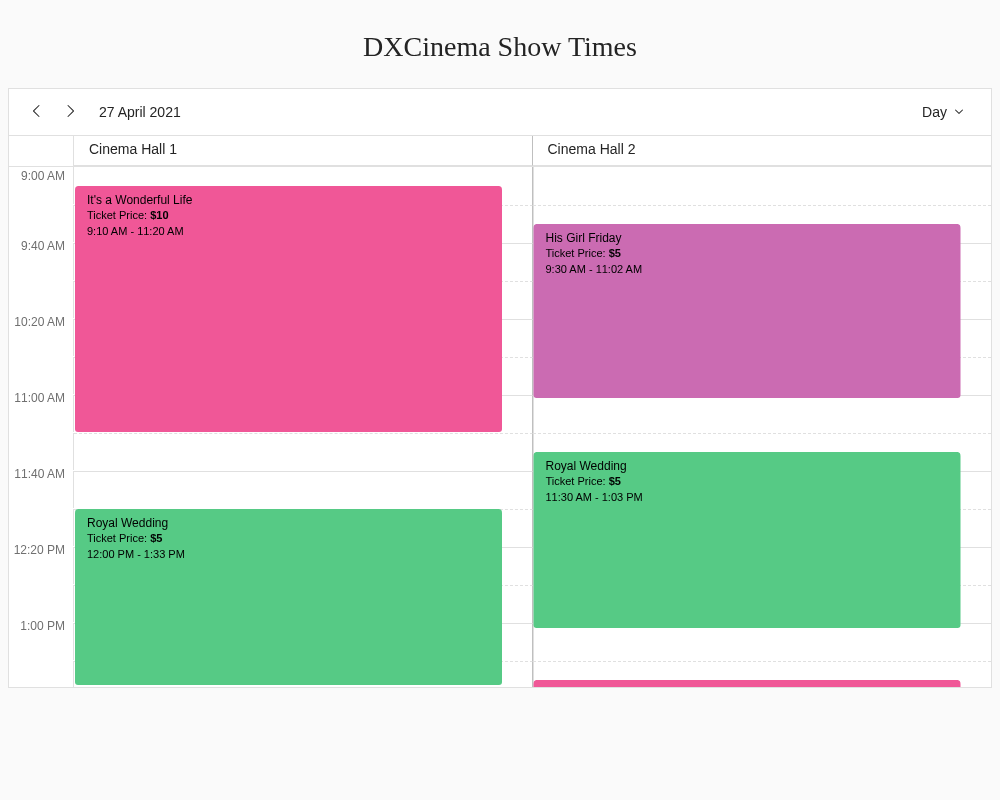
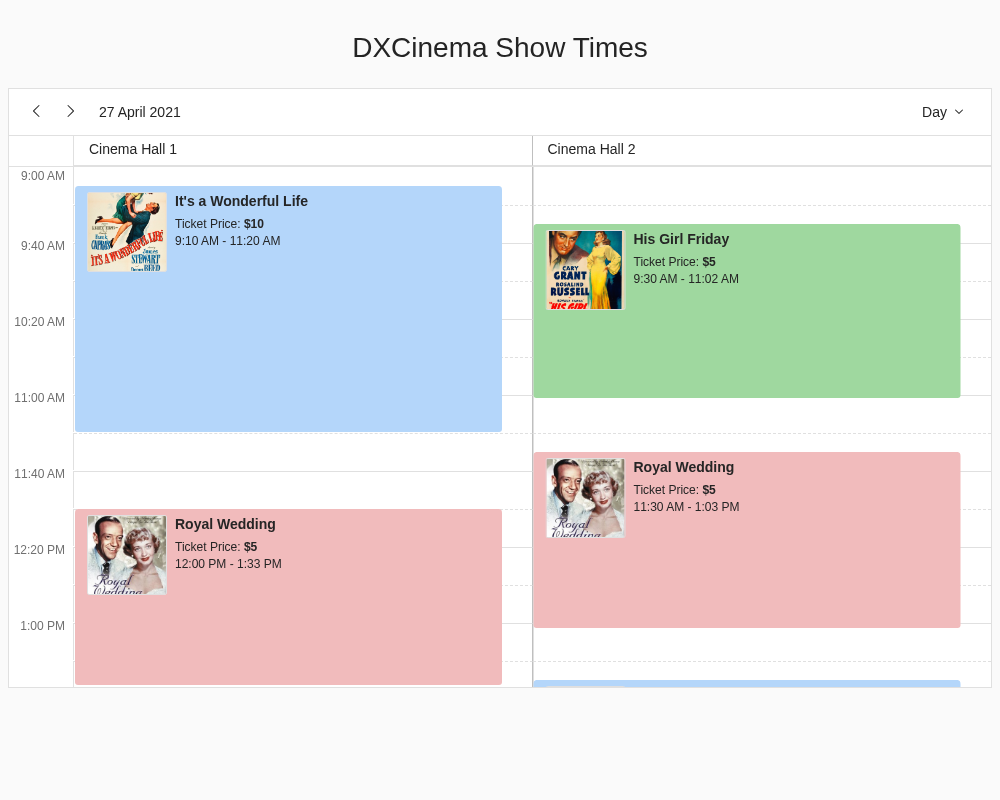
update etalons & lint

diff --git a/packages/devextreme/js/__internal/scheduler/appointment_popup/m_popup.ts b/packages/devextreme/js/__internal/scheduler/appointment_popup/m_popup.ts
@@ -6,7 +6,7 @@ import dateUtils from '@js/core/utils/date';
 import { Deferred, when } from '@js/core/utils/deferred';
 import { getWidth } from '@js/core/utils/size';
 import { getWindow } from '@js/core/utils/window';
-import type { dxPopupOptions, ToolbarItem } from '@js/ui/popup';
+import type { ToolbarItem } from '@js/ui/popup';
 import type dxPopup from '@js/ui/popup';
 import Popup from '@js/ui/popup/ui.popup';
 import { current, isFluent } from '@js/ui/themes';